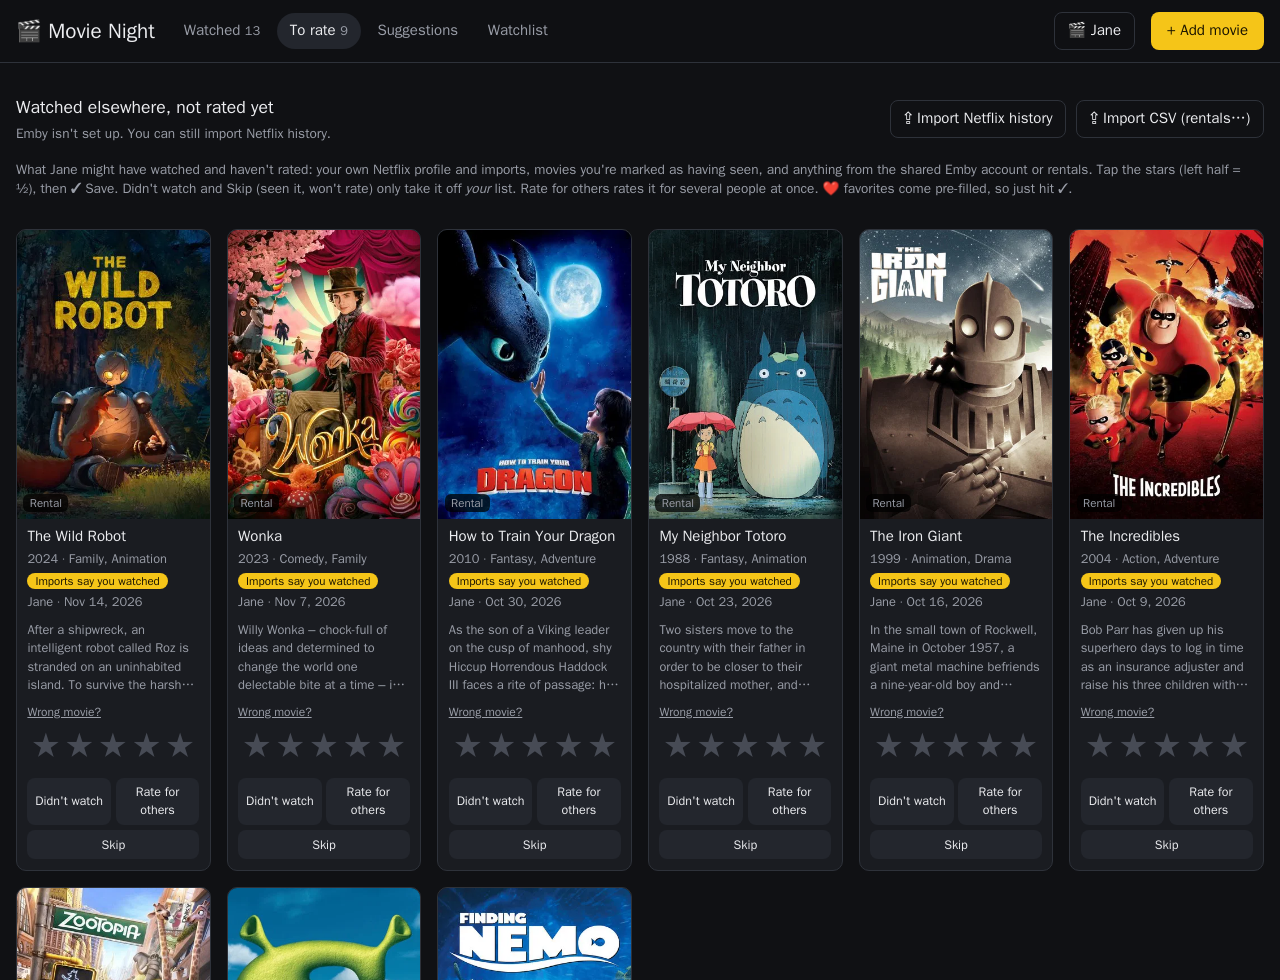
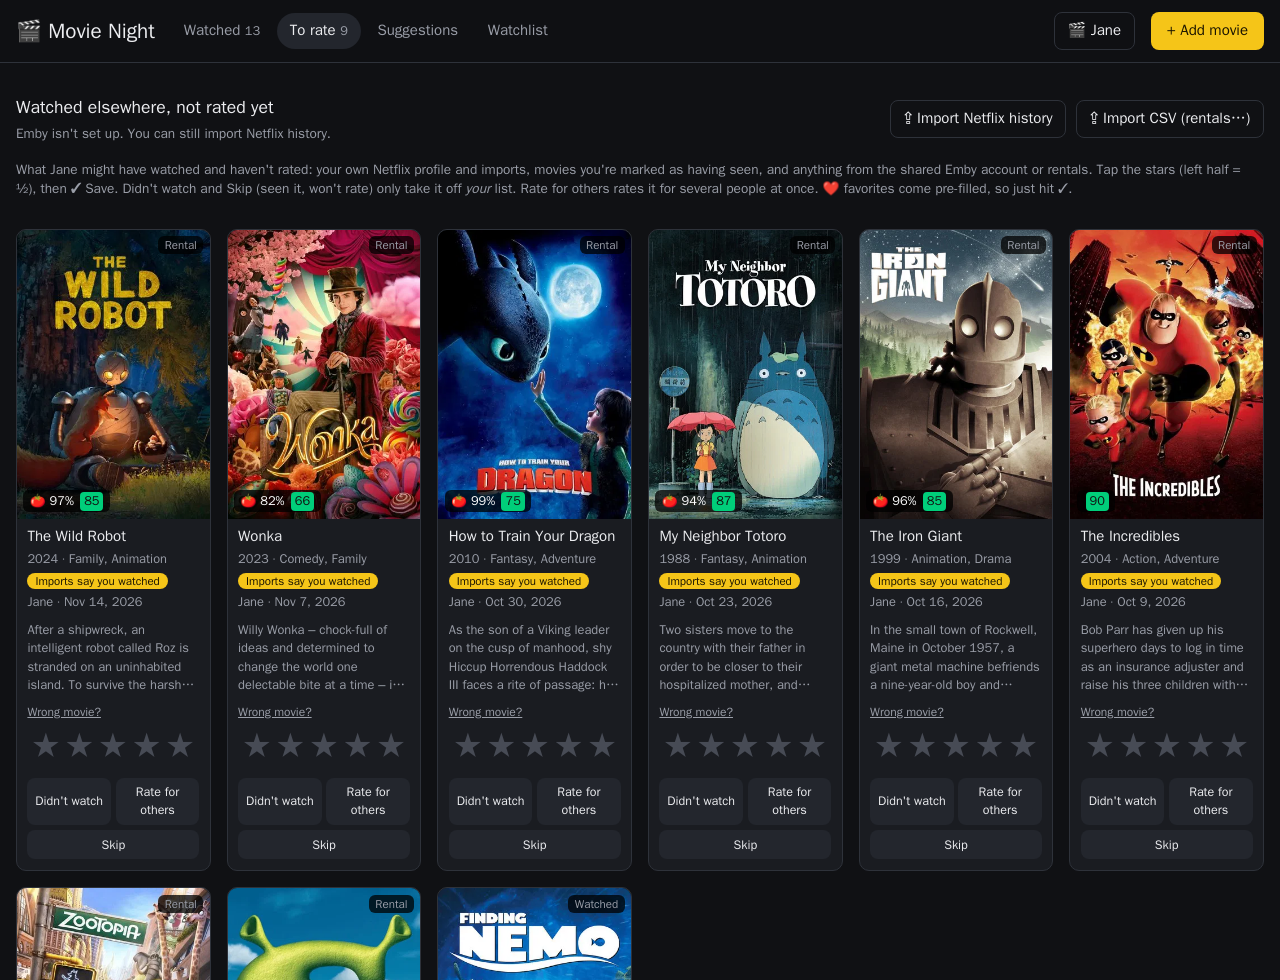
Critic badges on To rate cards; source tag moves to the top-right

diff --git a/static/app.js b/static/app.js
@@ -352,7 +352,7 @@ function queueCard(q) {
   const notNames = (q.not_watched || []).filter((id) => id !== state.me).map((id) => person(id)?.name).filter(Boolean);
   const others = q.ratings?.length ? `<div class="who">${q.ratings.map((r) => `<span>${esc(r.name)} ${fmtR(r.rating)}</span>`).join("")}</div>` : "";
   const credit = q.credited ? `<span class="needs">${q.kind === "movie" ? "You watched this" : "Imports say you watched"}</span>` : "";
-  return `<article class="card" data-key="${esc(q.key)}" data-r="${pre}">
+  return `<article class="card" data-key="${esc(q.key)}" data-r="${pre}" data-tmdb="${q.tmdb_id ?? ""}">
     <div style="position:relative">${poster(q)}${pre ? '<span class="fav">❤</span>' : ""}<span class="src">${esc(srcLabel(q))}</span></div>
     <div class="body">
       <div class="title">${esc(q.title)}</div>
@@ -385,6 +385,7 @@ function renderQueue() {
   const declinedN = state.queue.length - live.length;
   const creditedN = live.filter((q) => q.credited).length;
   $("#torate-grid").innerHTML = list.slice(0, state.queueShown).map(queueCard).join("");
+  fillRT($("#torate-grid"));                // critic badges for the cards on screen only
   const more = $("#torate-more");
   more.hidden = list.length <= state.queueShown;
   more.textContent = `Show more (${list.length - state.queueShown} left)`;

diff --git a/static/style.css b/static/style.css
@@ -61,7 +61,7 @@ main { max-width: 1300px; margin: 0 auto; padding: 1rem 16px 4rem; }
 #nf-result .sum { background: var(--panel-2); border-radius: 8px; padding: .6rem .8rem; margin-top: .6rem; }
 #nf-result details { margin-top: .4rem; font-size: .85rem; color: var(--muted); }
 #nf-result details ul { max-height: 160px; overflow-y: auto; margin: .3rem 0; padding-left: 1.1rem; }
-.card .src { position: absolute; bottom: .4rem; left: .4rem; background: rgba(0,0,0,.75); border-radius: 6px; padding: .05rem .4rem; font-size: .72rem; color: var(--muted); }
+.card .src { position: absolute; top: .4rem; right: .4rem; background: rgba(0,0,0,.75); border-radius: 6px; padding: .05rem .4rem; font-size: .72rem; color: var(--muted); }
 .card.done { opacity: .35; pointer-events: none; transition: opacity .3s; }
 input, select, textarea {
   font: inherit; color: var(--text); background: var(--panel); border: 1px solid var(--border);

diff --git a/README.md b/README.md
@@ -25,7 +25,7 @@ then get suggestions for one person or any group watching together.
   - *Ask Claude*: sends the whole rated list (with notes) plus an optional mood ("something light for Friday")
     to Claude, which returns 8 picks with a reason for each. For a group it looks for common ground. Uses `claude-opus-5-5` (override with `CLAUDE_MODEL`).
     Each click costs a few cents.
-  - With an OMDb key, suggestion, watchlist and Watched cards also show the **Rotten Tomatoes** Tomatometer
+  - With an OMDb key, every movie card (suggestions, watchlist, Watched, To rate) also shows the **Rotten Tomatoes** Tomatometer
     (🍅 fresh at 60%+, 🤢 rotten) and the **Metacritic** Metascore (green 61+, yellow 40–60, red under 40).
     The critics also nudge the ranking: the average of the two scores (or whichever exists) multiplies a
     movie's score, from ×1.2 at 100 down to ×0.7 at 0, with 60 neutral. Your own ratings still matter most;
@@ -89,7 +89,7 @@ Keys:
   which Emby users are imported, `EMBY_SYNC_HOURS=0` for button-only.
 - `ANTHROPIC_API_KEY`: https://console.anthropic.com/settings/keys. Only needed for Ask Claude.
 - `OMDB_API_KEY`: free at https://www.omdbapi.com/apikey.aspx (activate it from the email). Only needed for
-  Rotten Tomatoes / Metacritic scores and the critics boost; they're cached for a week, so the free 1,000 lookups a day is plenty (Watched only looks up the cards on screen, 60 at a time).
+  Rotten Tomatoes / Metacritic scores and the critics boost; they're cached for a week, so the free 1,000 lookups a day is plenty (Watched and To rate only look up the cards on screen, a page at a time).
 
 TMDB responses are cached in the DB for 7 days, so the Suggestions tab is fast after the first load.
 
